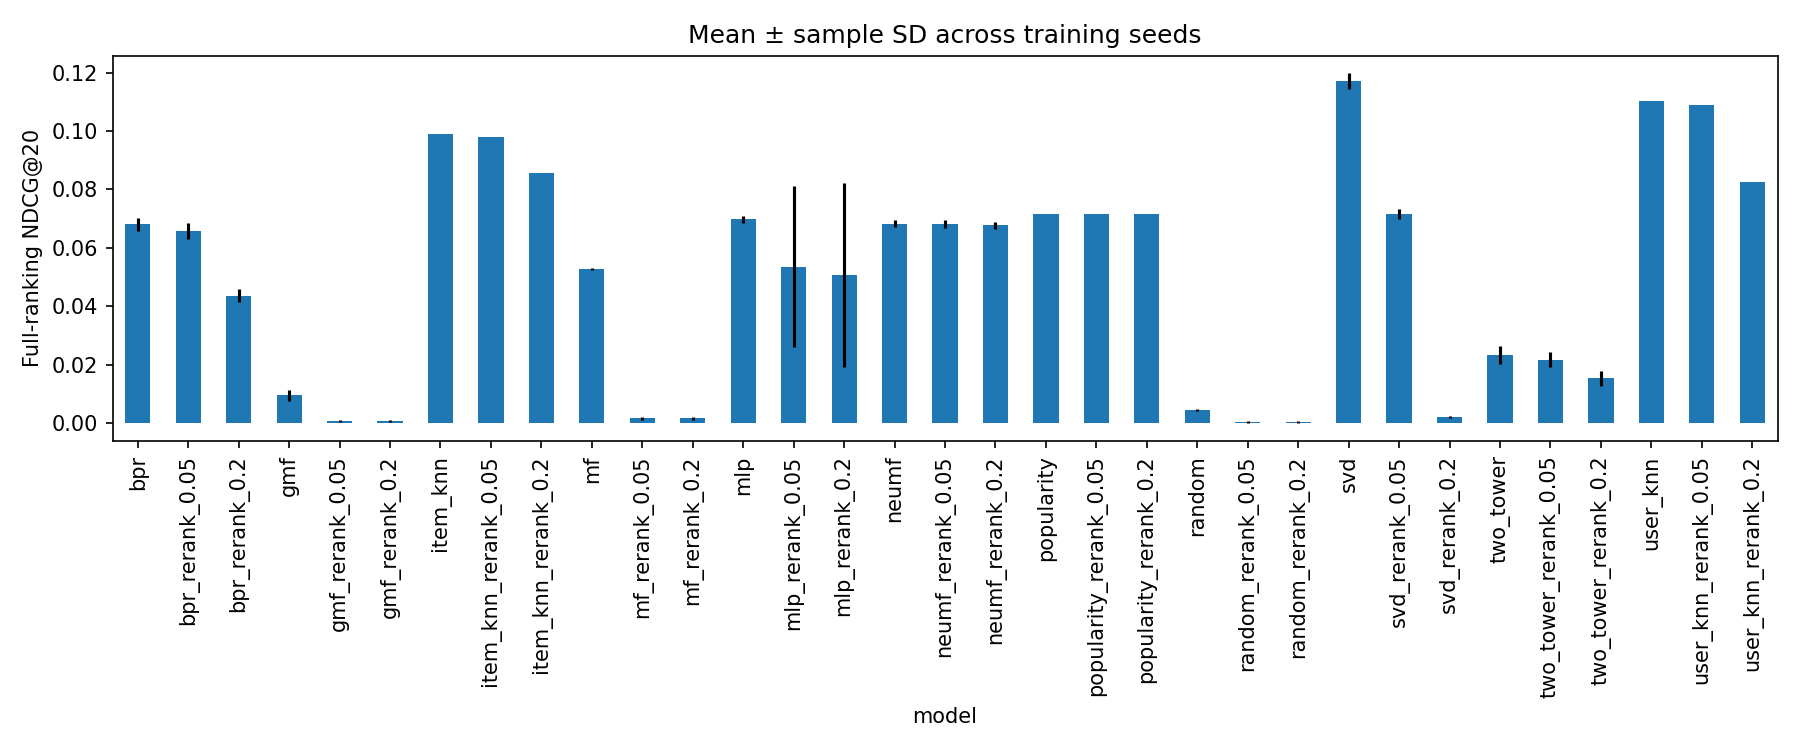
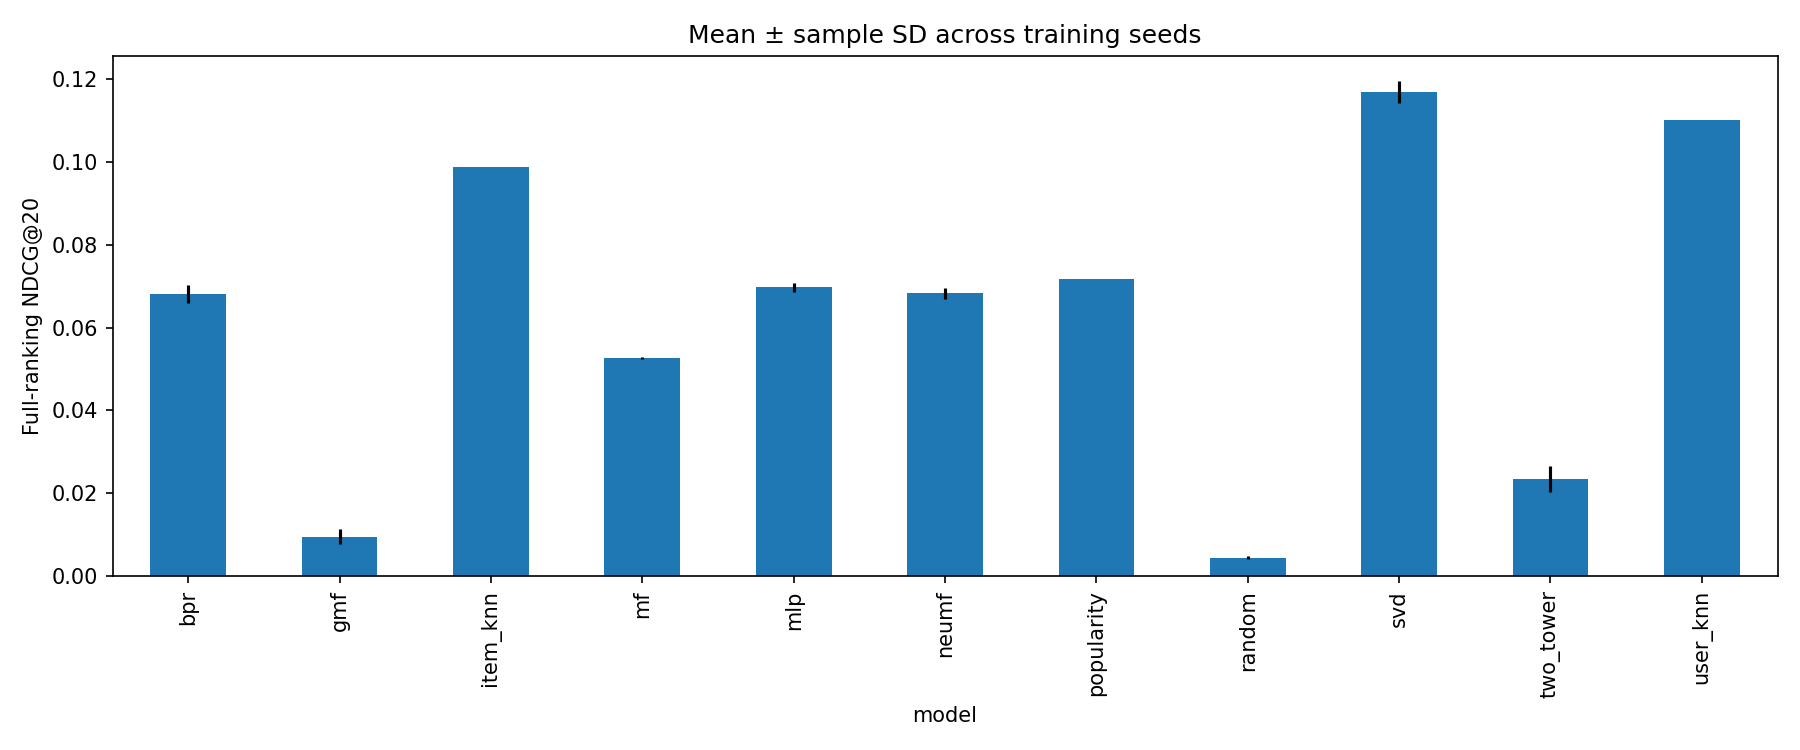
perf: reuse verified validation fits and clarify measured tradeoff plots

diff --git a/src/tune.py b/src/tune.py
@@ -3,6 +3,7 @@
 import argparse
 import copy
 import json
+import shutil
 from pathlib import Path
 
 import numpy as np
@@ -13,7 +14,7 @@ from src.data.preprocess import interaction_matrix
 from src.eval.beyond_accuracy import beyond_accuracy
 from src.eval.evaluate import evaluate, explicit_metrics
 from src.eval.significance import paired_bootstrap
-from src.train import MODELS, fit, prepare
+from src.train import MODELS, NEURAL, fit, prepare
 from src.utils import atomic_json, data_fingerprint, load_config
 
 
@@ -92,6 +93,21 @@ def tune(base: dict, output: Path, models: list[str], resume: bool = False) -> N
     (output / "selection.yaml").write_text(yaml.safe_dump(selections))
 
 
+def cached_trial(base: dict, output: Path, model: str, config: dict) -> Path | None:
+    """Reuse only completed validation fits with matching data and full config."""
+    manifest = output / "TUNING_MANIFEST.json"
+    if not manifest.exists():
+        return None
+    saved = json.loads(manifest.read_text())
+    if saved["config"] != base or saved["data_fingerprint"] != data_fingerprint(base["data_path"]):
+        return None
+    for completed in sorted((output / "tuning" / model).glob("*/TRIAL_COMPLETED.json")):
+        record = json.loads(completed.read_text())
+        if record["config"] == config:
+            return completed.parent
+    return None
+
+
 def final(base: dict, output: Path, resume: bool = False) -> None:
     """Run selected configs on three fixed seeds; include fixed reranking strengths.
 
@@ -136,11 +152,16 @@ def final(base: dict, output: Path, resume: bool = False) -> None:
                 )
                 continue
             first_row = len(rows)
+            cached = cached_trial(base, output, model, config)
+            if model in NEURAL and cached is not None and not (directory / "last.pt").exists():
+                directory.mkdir(parents=True, exist_ok=True)
+                shutil.copyfile(cached / "last.pt", directory / "last.pt")
+                atomic_json(directory / "REUSED_VALIDATION_FIT.json", {"source": str(cached)})
             scorer, validation = fit(
                 config,
                 model,
                 directory,
-                resume=resume and (directory / "last.pt").exists(),
+                resume=(resume or cached is not None) and (directory / "last.pt").exists(),
                 prepared=prepared,
             )
             metrics, per_user, rankings = evaluate(
@@ -216,9 +237,15 @@ def main() -> None:
         ]:
             for dim in base["search"]["embedding_dims"]:
                 config = trial_config(base, model, 0, dim)
-                _, metrics = fit(
-                    config, model, output / "ablation" / model / str(dim), prepared=prepared
-                )
+                cached = cached_trial(base, output, model, config)
+                if cached is not None:
+                    metrics = json.loads((cached / "TRIAL_COMPLETED.json").read_text())[
+                        "validation"
+                    ]
+                else:
+                    _, metrics = fit(
+                        config, model, output / "ablation" / model / str(dim), prepared=prepared
+                    )
                 rows.append({"model": model, "embedding_dim": dim, **metrics})
         pd.DataFrame(rows).to_csv(output / "ablations.csv", index=False)
 

diff --git a/src/report.py b/src/report.py
@@ -41,13 +41,32 @@ def eda(data_path: str, output: Path) -> None:
 def results(path: str, output: Path) -> None:
     """Plot mean and seed standard deviation of measured full-ranking NDCG."""
     frame = pd.read_csv(path)
-    summary = frame.groupby("model")["NDCG@20"].agg(["mean", "std"])
+    summary = (
+        frame[~frame.model.str.contains("_rerank_")]
+        .groupby("model")["NDCG@20"]
+        .agg(["mean", "std"])
+    )
     fig, ax = plt.subplots(figsize=(12, 5))
     summary["mean"].plot.bar(yerr=summary["std"].fillna(0), ax=ax)
     ax.set(ylabel="Full-ranking NDCG@20", title="Mean ± sample SD across training seeds")
     fig.tight_layout()
     output.mkdir(parents=True, exist_ok=True)
     fig.savefig(output / "ndcg20.png", dpi=150)
+    plt.close(fig)
+    tradeoff = frame.groupby("model")[["NDCG@20", "head_share"]].mean()
+    fig, ax = plt.subplots(figsize=(8, 5))
+    for model in summary.index:
+        names = [model, *[name for name in tradeoff.index if name.startswith(model + "_rerank_")]]
+        curve = tradeoff.loc[names]
+        ax.plot(curve.head_share, curve["NDCG@20"], marker="o", label=model)
+    ax.set(
+        xlabel="Recommendation share in popular catalog head",
+        ylabel="NDCG@20",
+        title="Fixed reranking penalties: accuracy/popularity tradeoff",
+    )
+    ax.legend(fontsize=8, ncol=2)
+    fig.tight_layout()
+    fig.savefig(output / "popularity_tradeoff.png", dpi=150)
     plt.close(fig)
 
 

diff --git a/tests/test_tuning_cache.py b/tests/test_tuning_cache.py
@@ -1,0 +1,23 @@
+"""Cached validation results must match the entire experimental protocol."""
+
+import json
+from pathlib import Path
+
+from src.tune import cached_trial
+
+
+def test_cached_trial_requires_matching_config_and_data(tmp_path: Path, monkeypatch) -> None:
+    monkeypatch.setattr("src.tune.data_fingerprint", lambda _: "data-v1")
+    base = {"data_path": "example", "epochs": 30}
+    config = {"seed": 42, "params": {"embedding_dim": 16}}
+    directory = tmp_path / "tuning" / "mf" / "0"
+    directory.mkdir(parents=True)
+    manifest = tmp_path / "TUNING_MANIFEST.json"
+    manifest.write_text(json.dumps({"config": base, "data_fingerprint": "data-v1"}))
+    assert cached_trial(base, tmp_path, "mf", config) is None
+    (directory / "TRIAL_COMPLETED.json").write_text(json.dumps({"config": config}))
+    assert cached_trial(base, tmp_path, "mf", config) == directory
+    assert cached_trial(base, tmp_path, "mf", dict(config, seed=17)) is None
+    assert cached_trial(dict(base, epochs=31), tmp_path, "mf", config) is None
+    monkeypatch.setattr("src.tune.data_fingerprint", lambda _: "data-v2")
+    assert cached_trial(base, tmp_path, "mf", config) is None

diff --git a/README.md b/README.md
@@ -78,7 +78,9 @@ available as metadata. See [MODEL_CARD.md](MODEL_CARD.md) for selection biases.
 Validation determines hyperparameters and early stopping. `src.tune --stage final`
 freezes selections and creates an exclusive `TEST_CONSUMED` marker before scoring
 three seeds. Do not inspect test results and retune. Recover an interrupted final run with the exact command plus `--resume`; manifests
-require unchanged selections/configuration and reuse completed model-seed results. Run ablations
+require unchanged selections/configuration and reuse completed model-seed results.
+Exact matching seed-42 validation checkpoints are reused for final scoring; this
+avoids retraining identical selected fits and does not create another seed. Run ablations
 and cold-start diagnostics on validation **before** final evaluation.
 
 Every ranking considers **all catalog items** and excludes prior observed items;

diff --git a/MODEL_CARD.md b/MODEL_CARD.md
@@ -4,7 +4,7 @@
 This is an educational MovieLens research pipeline, not a production Netflix model.
 All required model families are implemented. Synthetic functional checks are distinct
 from MovieLens effectiveness measurements. See `reports/VALIDATION.md` for actual
-executed checks. No unrun ML-1M or Kaggle results are claimed.
+executed checks. Measured CPU benchmarks are linked from the README; Kaggle GPU execution is unrun.
 
 ## Data and license
 MovieLens 100K is for debugging; MovieLens 1M is the main benchmark. Download directly
